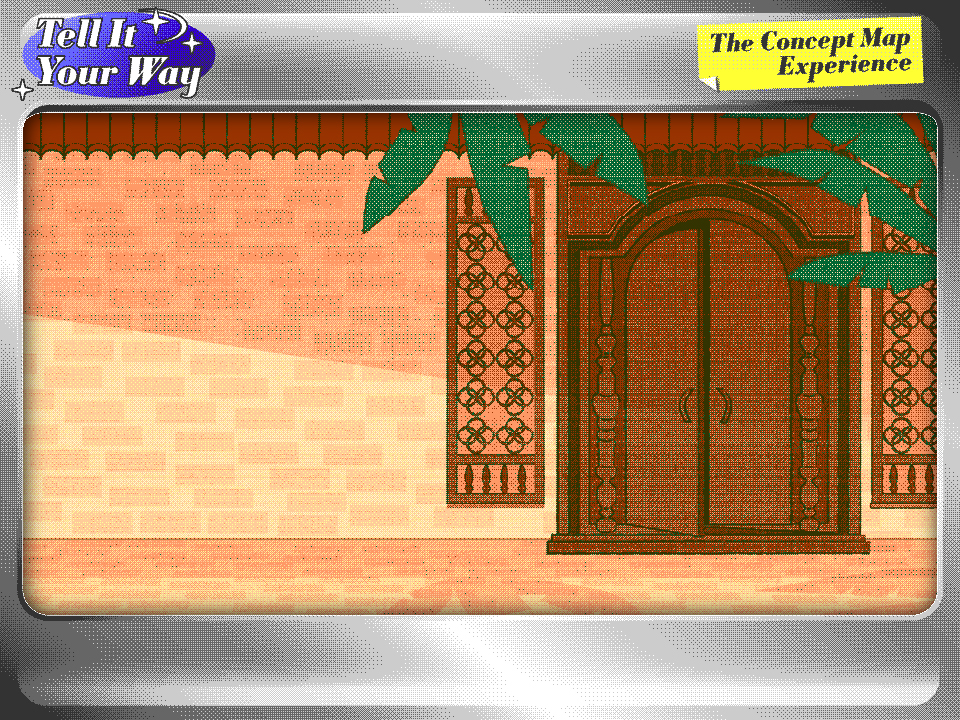
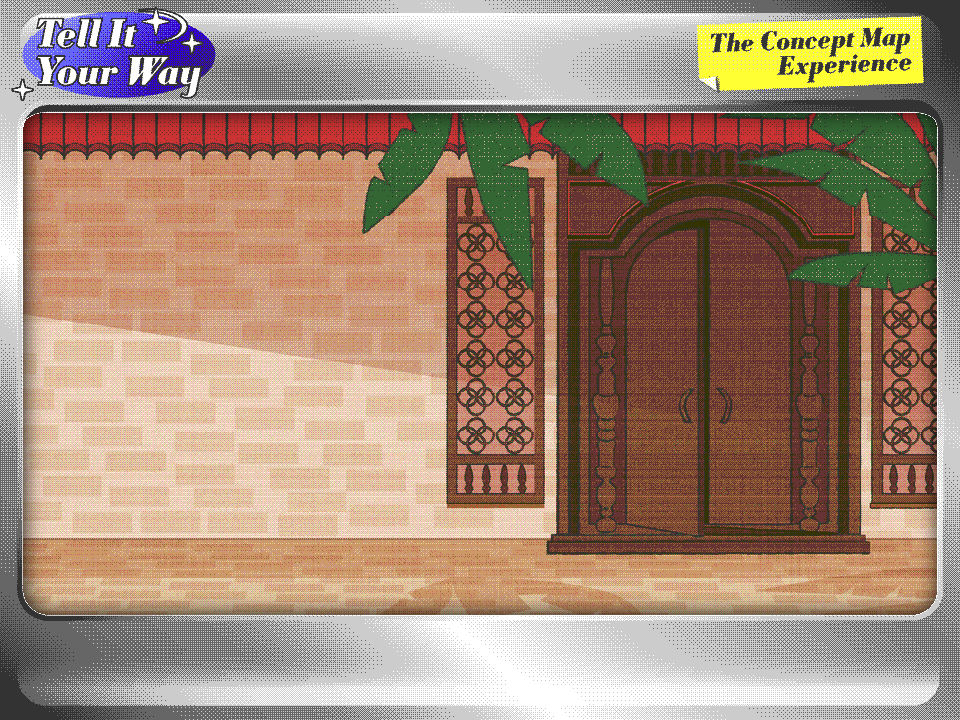
concept map overhaul

diff --git a/prototypes/concept_map/index.html b/prototypes/concept_map/index.html
@@ -129,6 +129,10 @@
             background-image: url('backgrounds/room_03b.jpg');
             background-color: #008800; /* Fallback */
         }
+        #room-3c { 
+            background-image: url('backgrounds/room_03b.jpg');
+            background-color: #008800; /* Fallback */
+        }
         #room-4 { 
             background-image: url('backgrounds/room_04.jpg');
             background-color: #000088; /* Fallback */
@@ -175,12 +179,14 @@
         }
 
         #section-title-display {
-            /* Use viewport units for scaling text relative to the screen */
+            /* Actual displayed title in each scene */
             font-size: clamp(12px, 1.8vw, 24px); 
             font-weight: bold;
             color: gold;
-            width: 40%;
+            width: 50%;
             text-shadow: 1px 1px 3px #000;
+            padding-top: 1%;
+            padding-left: 1%;
         }
 
         #nav-buttons {
@@ -252,20 +258,22 @@
         }
 
         /* Room 1 Item and Character (Positions are relative to the 100% room size) */
-        #item-1a { 
+       /* #item-1a {
+             
             left: 33%;  
             top: 20%;   
             width: 16%; 
             height: 24%;
-        }
-        #char-1b { 
+            
+        }*/
+        /* #char-1b { 
+           
             left: 15%;
-            /* Positioned just above the 10% bottom-bar */
             top: 28%; 
             width: 12%; 
             height: 32%; 
             border-color: orange; 
-        }
+        }*/
 
         /* --- Navigation Arrows --- */
         .nav-arrow {
@@ -532,26 +540,26 @@
         
         <div class="room" id="room-1">
             <h2 class="room-title" style="display: none;">Background & Context</h2>
-            <div class="interactable item" id="item-1a">
-                <div class="interactable-image" style="background-image: url('items/item_1A.jpg');"></div>
+            <div class="interactable item" id="item-1a" style="left: 12%; top: 43%; width: 8%; height: 14%;"">
+                <div class="interactable-image" style="background-image: url('items/item_1A.png');"></div>
             </div>
-            <div class="interactable item" id="item-1b" style="left: 65%; top: 46%; width: 9%; height: 14%;">
+            <div class="interactable item" id="item-1b" style="left: 63%; top: 47%; width: 7%; height: 13%;">
                 <div class="interactable-image" style="background-image: url('items/item_1B.png');"></div>
             </div>
-            <div class="interactable item" id="item-1c" style="left: 75%; top: 46%; width: 9%; height: 14%;">
+            <div class="interactable item" id="item-1c" style="left: 72%; top: 47%; width: 7%; height: 13%;">
                 <div class="interactable-image" style="background-image: url('items/item_1C.png');"></div>
             </div>
-            <div class="interactable item" id="item-1d" style="left: 65%; top: 60%; width: 9%; height: 14%;">
+            <div class="interactable item" id="item-1d" style="left: 63%; top: 61%; width: 7%; height: 13%;">
                 <div class="interactable-image" style="background-image: url('items/item_1D.png');"></div>
             </div>
-            <div class="interactable item" id="item-1e" style="left: 75%; top: 60%; width: 9%; height: 14%;">
+            <div class="interactable item" id="item-1e" style="left: 72%; top: 61%; width: 7%; height: 13%;">
                 <div class="interactable-image" style="background-image: url('items/item_1E.png');"></div>
             </div>
-            <div class="interactable character" id="char-1b">
-                <div class="interactable-image" style="background-image: url('characters/character_placeholder.png');"></div>
+            <div class="interactable character" id="char-1b" style="left: 24%; top: 28%; width: 12%; height: 26%">
+                <div class="interactable-image" style="background-image: url('characters/char_1B.png');"></div>
             </div>
             
-            <div class="interactable link" id="external-link-1" style="left: 59%; top: 20%; width: 30%; height: 20%;">
+            <div class="interactable link" id="external-link-1" style="left: 56%; top: 20%; width: 27%; height: 20%;">
                 <div class="interactable-image" style="background-image: url('items/item_1F.png');"></div>
             </div>
             <div class="nav-arrow right-arrow" data-target="room-2">NEXT ></div>
@@ -559,7 +567,9 @@
 
         <div class="room" id="room-2" style="display: none;">
             <h2 class="room-title" style="display: none;">Role of Design & Objectives</h2>
-            <div class="interactable item" id="item-2a">Item A (Room 2)</div>
+            <div class="interactable item" id="item-2a" style="left: 25%; top: 18%; width: 51%; height: 28%;"">
+                <div class="interactable-image" style="background-image: url('items/item_2A.png');"></div>
+            </div>
             <div class="nav-arrow left-arrow" data-target="room-1">< PREV</div>
             <div class="nav-arrow right-arrow" data-target="room-3">NEXT ></div>
         </div>
@@ -575,41 +585,153 @@
         </div>
         <div class="room" id="room-3b" style="display: none;">
             <h2 class="room-title" style="display: none;">Themes & Research Questions</h2>
+            <div class="interactable item" id="item-3a" style="left: 23%; top: 23%; width: 54%; height: 40%;"">
+                <div class="interactable-image" style="background-image: url('items/item_3A.png');"></div>
+            </div>
             <div class="nav-arrow left-arrow" data-target="room-3">< PREV</div>
+            <div class="nav-arrow right-arrow" data-target="room-3c">NEXT ></div>
+        </div>
+         <div class="room" id="room-3c" style="display: none;">
+            <h2 class="room-title" style="display: none;">Themes & Research Questions</h2>
+            <div class="interactable item" id="item-3b" style="left: 23%; top: 23%; width: 54%; height: 40%;"">
+                <div class="interactable-image" style="background-image: url('items/item_3B.png');"></div>
+            </div>
+            <div class="nav-arrow left-arrow" data-target="room-3b">< PREV</div>
             <div class="nav-arrow right-arrow" data-target="room-4">NEXT ></div>
         </div>
         <div class="room" id="room-4" style="display: none;">
             <h2 class="room-title" style="display: none;"> Design Framework & Methodologies</h2>
+            <div class="interactable item" id="item-4a" style="left: 29%; top: 19%; width: 13%; height:27%;"">
+                <div class="interactable-image" style="background-image: url('items/item_4A.png');"></div>
+            </div>
+            <div class="interactable item" id="item-4b" style="left: 44%; top: 19%; width: 13%; height:27%;"">
+                <div class="interactable-image" style="background-image: url('items/item_4B.png');"></div>
+            </div>
+            <div class="interactable item" id="item-4c" style="left: 59%; top: 19%; width: 13%; height:27%;"">
+                <div class="interactable-image" style="background-image: url('items/item_4C.png');"></div>
+            </div>
+            <div class="interactable item" id="item-4d" style="left: 3%; top: 31%; width: 13%; height:36%;"">
+                <div class="interactable-image" style="background-image: url('items/item_4D.png');"></div>
+            </div>
+            <div class="interactable item" id="item-4e" style="left: 83%; top: 31%; width: 13%; height:36%;"">
+                <div class="interactable-image" style="background-image: url('items/item_4E.png');"></div>
+            </div>
+            <div class="interactable item" id="item-4f" style="left: 33%; top: 52%; width: 34%; height:13%;"">
+                <div class="interactable-image" style="background-image: url('items/item_4F.png');"></div>
+            </div>
             <div class="nav-arrow left-arrow" data-target="room-3">< PREV</div>
             <div class="nav-arrow right-arrow" data-target="room-5">NEXT ></div>
         </div>
         <div class="room" id="room-5" style="display: none;">
             <h2 class="room-title" style="display: none;">Areas of Research & Theoretical Framework</h2>
+            <div class="interactable item" id="item-5a" style="left: 3%; top: 51%; width: 13%; height:18%;"">
+                <div class="interactable-image" style="background-image: url('items/item_5A.png');"></div>
+            </div>
+            <div class="interactable item" id="item-5b" style="left: 18%; top: 20%; width: 32%; height:13%;"">
+                <div class="interactable-image" style="background-image: url('items/item_5B.png');"></div>
+            </div>
+            <div class="interactable item" id="item-5c" style="left: 22%; top: 37%; width: 22%; height:39%;"">
+                <div class="interactable-image" style="background-image: url('items/item_5C.png');"></div>
+            </div>
+            <div class="interactable item" id="item-5d" style="left: 52%; top: 18%; width: 19%; height:17%;"">
+                <div class="interactable-image" style="background-image: url('items/item_5D.png');"></div>
+            </div>
+            <div class="interactable item" id="item-5e" style="left: 48%; top: 36%; width: 19%; height:17%;"">
+                <div class="interactable-image" style="background-image: url('items/item_5E.png');"></div>
+            </div>
+            <div class="interactable item" id="item-5f" style="left: 73%; top: 20%; width: 10%; height:26%;"">
+                <div class="interactable-image" style="background-image: url('items/item_5F.png');"></div>
+            </div>
+            <div class="interactable item" id="item-5g" style="left: 80%; top: 47%; width: 13%; height:18%;"">
+                <div class="interactable-image" style="background-image: url('items/item_5G.png');"></div>
+            </div>
             <div class="nav-arrow left-arrow" data-target="room-4">< PREV</div>
             <div class="nav-arrow right-arrow" data-target="room-6">NEXT ></div>
         </div>
         <div class="room" id="room-6" style="display: none;">
             <h2 class="room-title" style="display: none;">Audience & Stakeholders</h2>
+            <div class="interactable character" id="char-6a" style="left: 23%; top: 36%; width: 10%; height: 43%">
+                <div class="interactable-image" style="background-image: url('characters/char_6A.png');"></div>
+            </div>
+            <div class="interactable character" id="char-6b" style="left: 45%; top: 36%; width: 10%; height: 43%">
+                <div class="interactable-image" style="background-image: url('characters/char_6B.png');"></div>
+            </div>
+            <div class="interactable character" id="char-6c" style="left: 67%; top: 36%; width: 10%; height: 43%">
+                <div class="interactable-image" style="background-image: url('characters/char_6C.png');"></div>
+            </div>
             <div class="nav-arrow left-arrow" data-target="room-5">< PREV</div>
             <div class="nav-arrow right-arrow" data-target="room-7">NEXT ></div>
         </div>
         <div class="room" id="room-7" style="display: none;">
             <h2 class="room-title" style="display: none;">My Findings</h2>
+            <div class="interactable item" id="item-7a" style="left: 16%; top: 22%; width: 28%; height:12%;"">
+                <div class="interactable-image" style="background-image: url('items/item_7A.png');"></div>
+            </div>
+            <div class="interactable item" id="item-7b" style="left: 16%; top: 39%; width: 28%; height:20%;"">
+                <div class="interactable-image" style="background-image: url('items/item_7B.png');"></div>
+            </div>
+            <div class="interactable item" id="item-7c" style="left: 16%; top: 60%; width: 28%; height:12%;"">
+                <div class="interactable-image" style="background-image: url('items/item_7C.png');"></div>
+            </div>
+            <div class="interactable item" id="item-7d" style="left: 56%; top: 19%; width: 28%; height:28%;"">
+                <div class="interactable-image" style="background-image: url('items/item_7D.png');"></div>
+            </div>
+            <div class="interactable item" id="item-7e" style="left: 53%; top: 52%; width: 35%; height:14%;"">
+                <div class="interactable-image" style="background-image: url('items/item_7E.png');"></div>
+            </div>
+            
             <div class="nav-arrow left-arrow" data-target="room-6">< PREV</div>
             <div class="nav-arrow right-arrow" data-target="room-8">NEXT ></div>
         </div>
         <div class="room" id="room-8" style="display: none;">
             <h2 class="room-title" style="display: none;">Case Studies</h2>
+            <div class="interactable item" id="item-8a" style="left: 18%; top: 19%; width: 20%; height:13%;"">
+                <div class="interactable-image" style="background-image: url('items/item_8A.png');"></div>
+            </div>
+            <div class="interactable item" id="item-8b" style="left: 40%; top: 19%; width: 20%; height:13%;"">
+                <div class="interactable-image" style="background-image: url('items/item_8B.png');"></div>
+            </div>
+            <div class="interactable item" id="item-8c" style="left: 63%; top: 19%; width: 20%; height:13%;"">
+                <div class="interactable-image" style="background-image: url('items/item_8C.png');"></div>
+            </div>
+            <div class="interactable item" id="item-8d" style="left: 18%; top: 34%; width: 20%; height:13%;"">
+                <div class="interactable-image" style="background-image: url('items/item_8D.png');"></div>
+            </div>
+            <div class="interactable item" id="item-8e" style="left: 40%; top: 34%; width: 20%; height:13%;"">
+                <div class="interactable-image" style="background-image: url('items/item_8E.png');"></div>
+            </div>
+            <div class="interactable item" id="item-8f" style="left: 63%; top: 34%; width: 20%; height:13%;"">
+                <div class="interactable-image" style="background-image: url('items/item_8F.png');"></div>
+            </div>
+            
             <div class="nav-arrow left-arrow" data-target="room-7">< PREV</div>
             <div class="nav-arrow right-arrow" data-target="room-9">NEXT ></div>
         </div>
         <div class="room" id="room-9" style="display: none;">
             <h2 class="room-title" style="display: none;">Design Briefs & Prototypes</h2>
+            <div class="interactable item" id="item-9a" style="left: 13%; top: 44%; width: 41%; height:14%;"">
+                <div class="interactable-image" style="background-image: url('items/item_9A.png');"></div>
+            </div>
+            <div class="interactable item" id="item-9b" style="left: 13%; top: 59%; width: 41%; height:14%;"">
+                <div class="interactable-image" style="background-image: url('items/item_: 9B;.png');"></div>
+            </div>
+            <div class="interactable item" id="item-9c" style="left: 72%; top: 39%; width: 14%; height:18%;"">
+                <div class="interactable-image" style="background-image: url('items/item_9C.png');"></div>
+            </div>
+            <div class="interactable item" id="item-9d" style="left: 86%; top: 18%; width: 10%; height:27%;"">
+                <div class="interactable-image" style="background-image: url('items/item_9D.png');"></div>
+            </div>
+            <div class="interactable item" id="item-9e" style="left: 40%; top: 16%; width: 20%; height:18%;"">
+                <div class="interactable-image" style="background-image: url('items/item_9E.png');"></div>
+            </div>
             <div class="nav-arrow left-arrow" data-target="room-8">< PREV</div>
             <div class="nav-arrow right-arrow" data-target="room-10">NEXT ></div>
         </div>
         <div class="room" id="room-10" style="display: none;">
             <h2 class="room-title" style="display: none;">Future Framing</h2>
+            <div class="interactable item" id="item-10a" style="left: 7%; top: 22%; width: 41%; height:45%;"">
+                <div class="interactable-image" style="background-image: url('items/item_10A.png');"></div>
+            </div>
             <div class="nav-arrow left-arrow" data-target="room-9">< PREV</div>
             </div>
         <div id="bottom-bar">
@@ -706,7 +828,7 @@
                 type: 'item',
                 title: 'Topic Breakdown Diagram',
                 // CRITICAL: Update this path for the overlay image
-                imagePath: 'items/item_1A.jpg', 
+                imagePath: 'items/item_1A.png', 
                 text: 'Oral traditions, recognized by UNESCO as a domain of Intangible Cultural Heritage (ICH), play a vital role in transmitting cultural values, memory, and identity across generations.<br><br> At the heart of these traditions is storytelling — a living practice that requires preservation approaches enabling it to evolve and stay relevant to changing cultural contexts.<br><br>This research focuses specifically on folktales — narratives that encode communal wisdom and moral lessons passed from one generation to the next.'
             },
             'item-1b': {
@@ -748,13 +870,18 @@
             'item-2a': {
                 type: 'item',
                 title: 'Role of Design',
-                imagePath: 'https://via.placeholder.com/400x300?text=Methodology+Diagram',
-                text: 'The methodology employed in Section 2 is crucial. We used a blend of **Qualitative and Quantitative** analysis, primarily through A/B testing over six months.'
-            },
+                imagePath: 'items/item_1E.png',
+                text: ''},
 
             'link-to-room-3': {
+                //light turn off
                 type: 'scene',
                 destinationId: 'room-3b' // Define the room it links to
+            },
+            'item-3a': {
+                //transition to scene 3c
+                type: 'scene',
+                destinationId: 'room-3c' // Define the room it links to
             },
             'external-link-1': {
                 type: 'link',
